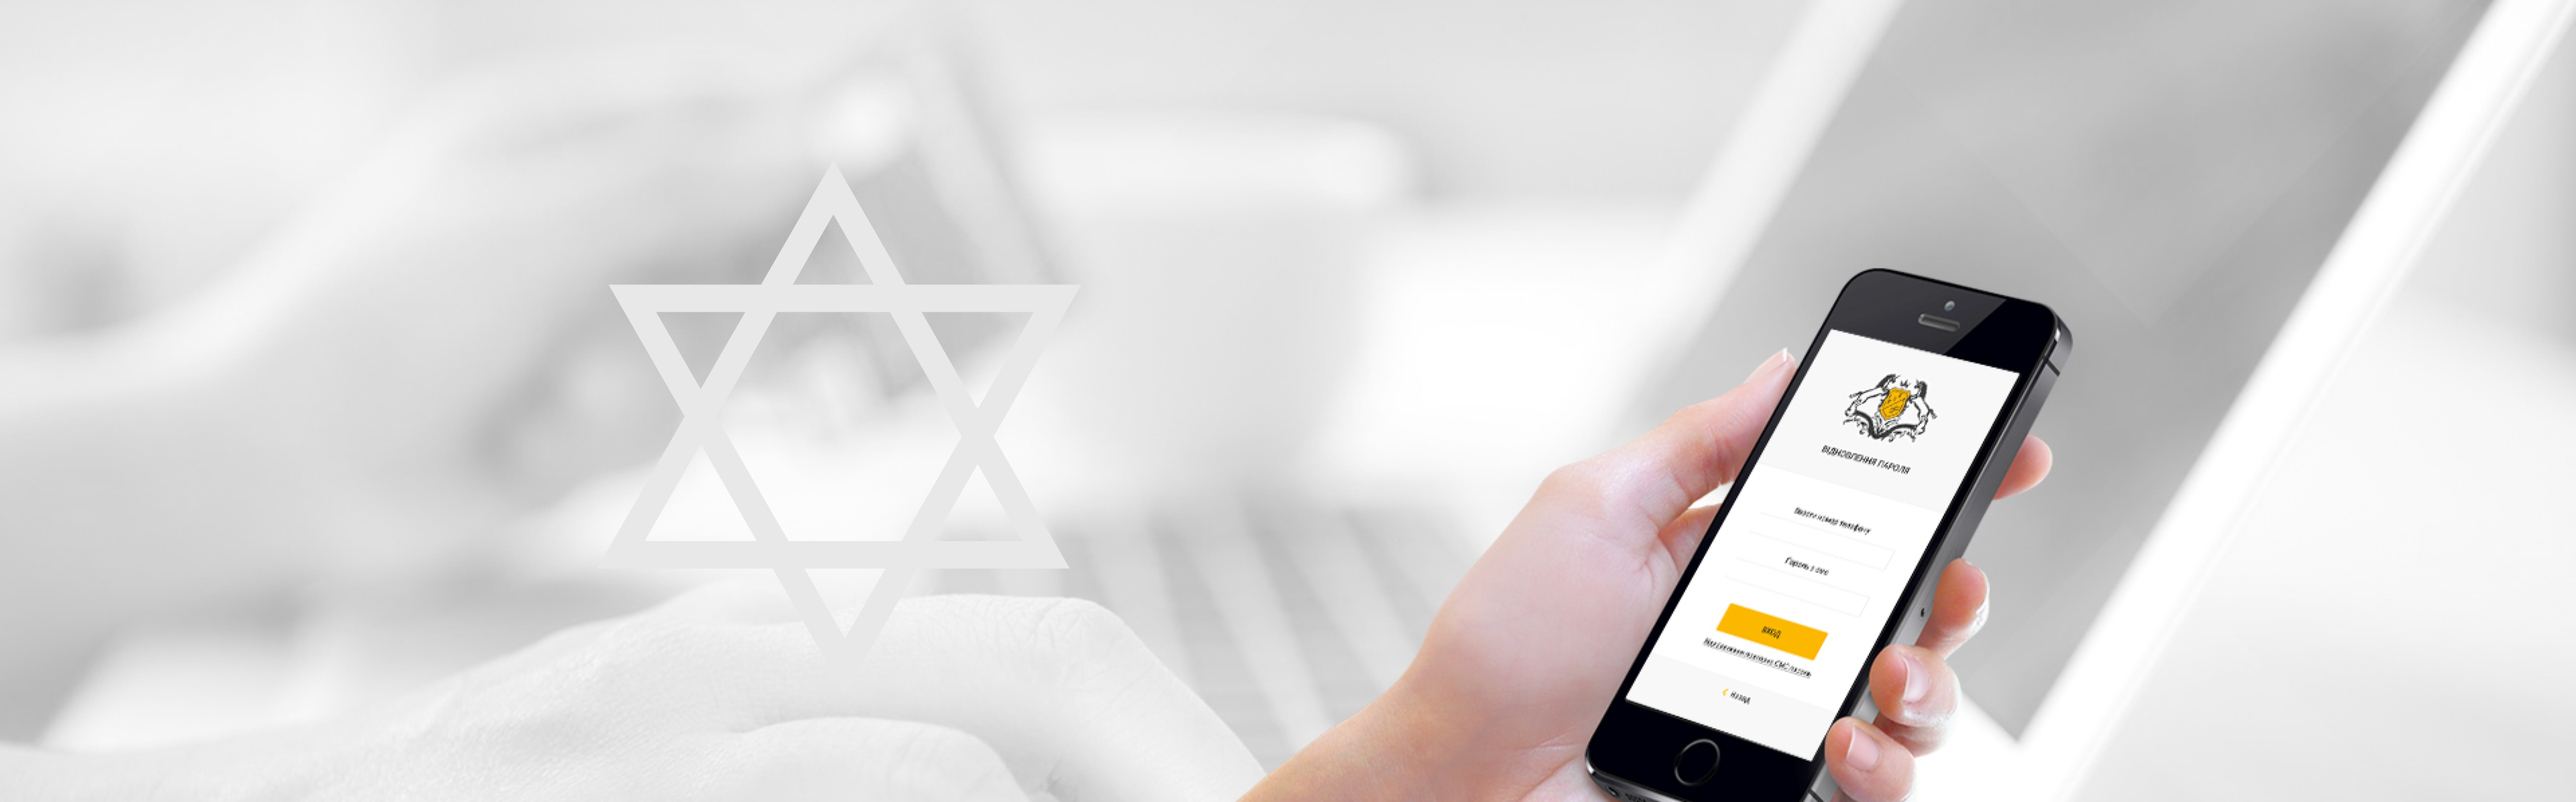
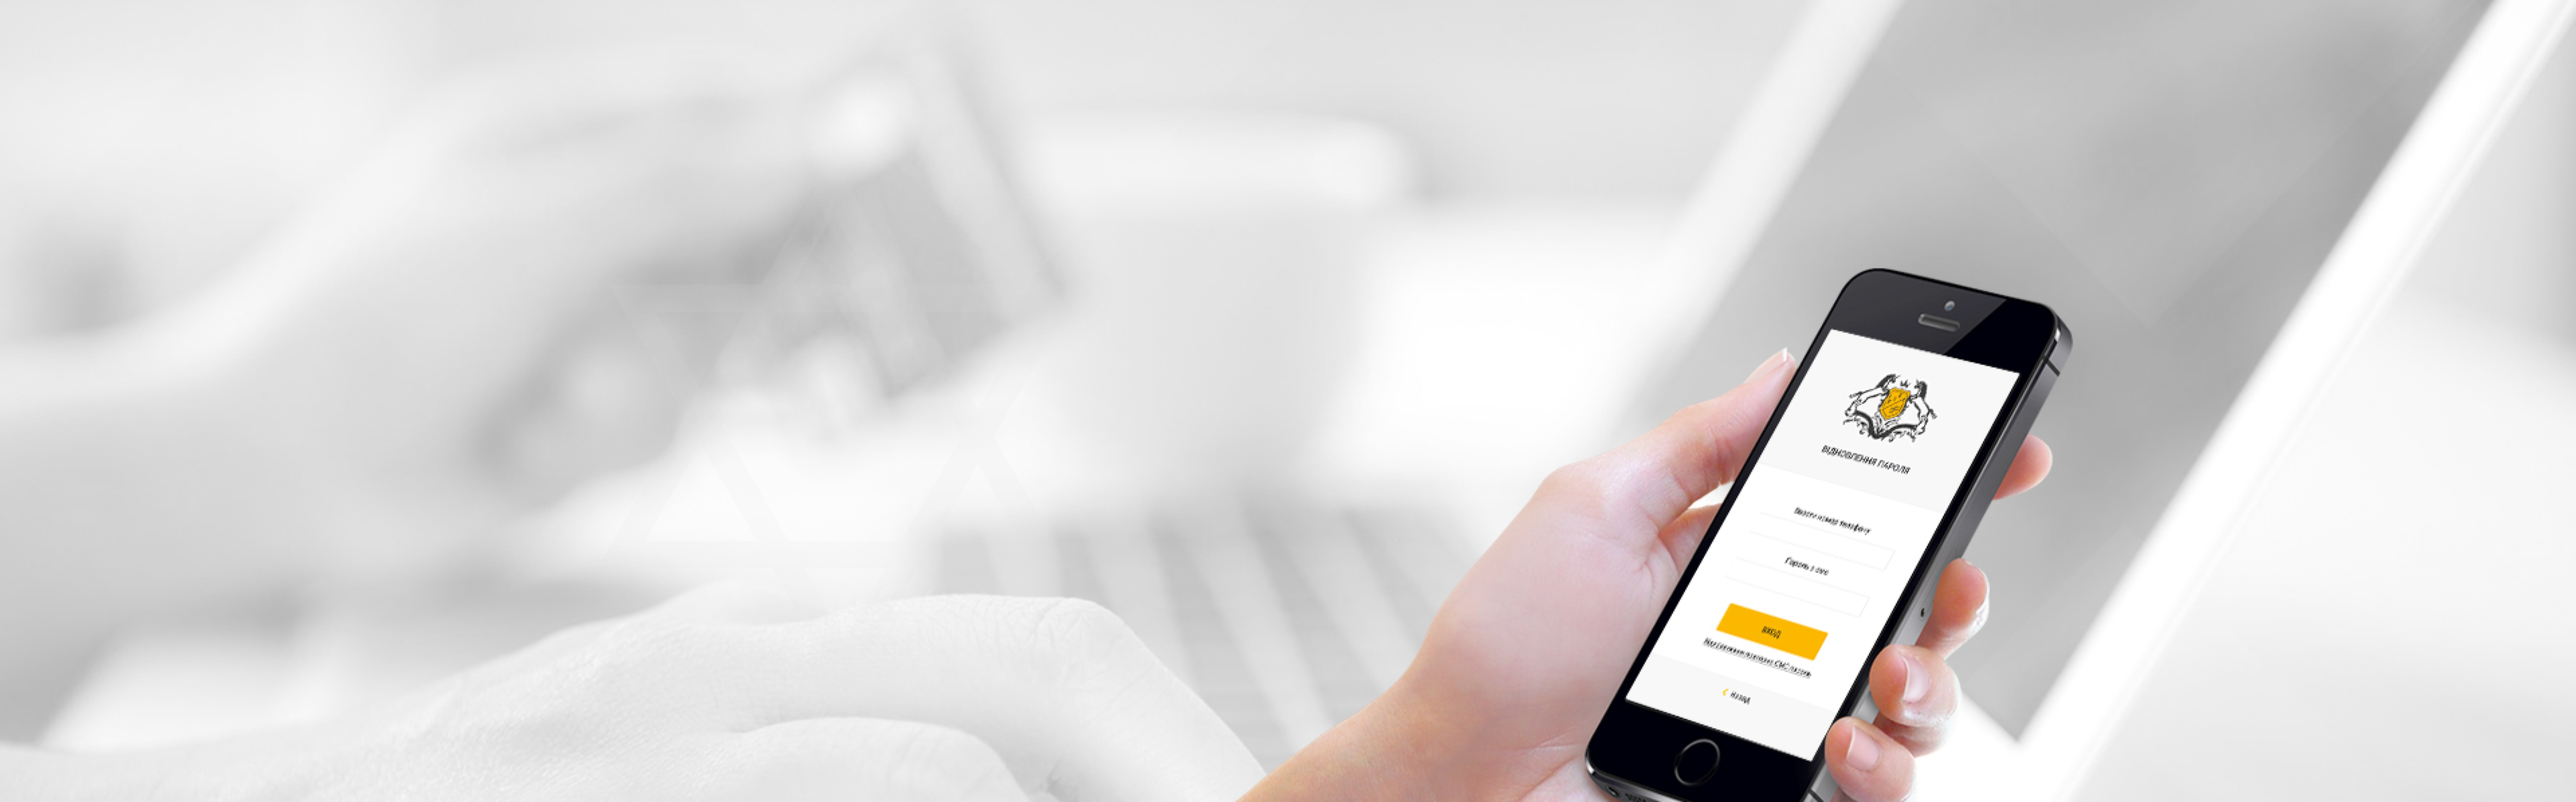
added timer to  Exchange and Marketplace; change background for business and private pages

Changed region(s): [[0.2188, 0.2166, 0.4062, 0.495]]

diff --git a/src/assets/new_assets/js/jquery.time-to.min.js b/src/assets/new_assets/js/jquery.time-to.min.js
@@ -1,0 +1,10 @@
+/**
+ * Time-To jQuery plug-in
+ * Show countdown timer or realtime clock
+ *
+ * @author Alexey Teterin <altmoc@gmail.com>
+ * @version 1.2.0
+ * @license MIT http://opensource.org/licenses/MIT
+ * @date 2016-11-02
+ */
+!function(t){"function"==typeof define&&define.amd?define(["jquery"],t):"object"==typeof exports?module.exports=t(require("jquery")):t(jQuery)}(function(t){function e(e,a){var o,l,d,r,c,u,h,p,f,m=this.data(),y=this.find("ul"),g=!1;if(m.vals&&0!==y.length){for(e||(e=m.seconds),m.intervalId&&(g=!0,clearTimeout(m.intervalId)),o=Math.floor(e/s),l=o*s,d=Math.floor((e-l)/n),l+=d*n,r=Math.floor((e-l)/60),l+=60*r,c=e-l,u=(o<100?"0"+(o<10?"0":""):"")+o+(d<10?"0":"")+d+(r<10?"0":"")+r+(c<10?"0":"")+c,h=m.vals.length-1,p=u.length-1;h>=0;h-=1,p-=1)f=parseInt(u.substr(p,1),10),m.vals[h]=f,y.eq(h).children().html(f);(g||a)&&(m.ttStartTime=t.now(),m.intervalId=setTimeout(i.bind(this),1e3),this.data("intervalId",m.intervalId))}}function i(e){var s,n,a,o,l,d,r=this,c=this.find("ul"),u=this.data();return u.vals&&0!==c.length?("undefined"==typeof e&&(e=u.iSec),s=u.vals[e],n=c.eq(e),a=n.children(),o=u.countdown?-1:1,a.eq(1).html(s),s+=o,e===u.iSec&&(l=u.tickTimeout,d=t.now()-u.ttStartTime,u.sec+=o,l+=Math.abs(u.seconds-u.sec)*l-d,u.intervalId=setTimeout(i.bind(this),l)),(s<0||s>u.limits[e])&&(s<0?(s=u.limits[e],e===u.iHour&&u.displayDays>0&&e>0&&0===u.vals[e-1]&&(s=3)):s=0,e>0&&i.call(this,e-1)),a.eq(0).html(s),t.support.transition?(n.addClass("transition"),n.css({top:0}),setTimeout(function(){n.removeClass("transition"),a.eq(1).html(s),n.css({top:"-"+u.height+"px"}),o>0||e!==u.iSec||(u.sec===u.countdownAlertLimit&&c.parent().addClass("timeTo-alert"),0===u.sec&&(c.parent().removeClass("timeTo-alert"),u.intervalId&&(clearTimeout(u.intervalId),r.data("intervalId",null)),"function"==typeof u.callback&&u.callback()))},410)):n.stop().animate({top:0},400,e!==u.iSec?null:function(){a.eq(1).html(s),n.css({top:"-"+u.height+"px"}),o>0||e!==u.iSec||(u.sec===u.countdownAlertLimit?c.parent().addClass("timeTo-alert"):0===u.sec&&(c.parent().removeClass("timeTo-alert"),u.intervalId&&(clearTimeout(u.intervalId),r.data("intervalId",null)),"function"==typeof u.callback&&u.callback()))}),void(u.vals[e]=s)):(u.intervalId&&(clearTimeout(u.intervalId),this.data("intervalId",null)),void(u.callback&&u.callback()))}var s=86400,n=3600,a={callback:null,captionSize:0,countdown:!0,countdownAlertLimit:10,displayCaptions:!1,displayDays:0,displayHours:!0,fontFamily:"Verdana, sans-serif",fontSize:0,lang:"en",languages:{},seconds:0,start:!0,theme:"white",width:25,height:30,gap:11,vals:[0,0,0,0,0,0,0,0,0],limits:[9,9,9,2,9,5,9,5,9],iSec:8,iHour:4,tickTimeout:1e3,intervalId:null},o={start:function(s){var n;s&&(e.call(this,s),n=setTimeout(i.bind(this),1e3),this.data("ttStartTime",t.now()),this.data("intervalId",n))},stop:function(){var t=this.data();return t.intervalId&&(clearTimeout(t.intervalId),this.data("intervalId",null)),t},reset:function(t){var i=o.stop.call(this),s="undefined"==typeof t?i.seconds:t;this.find("div").css({backgroundPosition:"left center"}),this.find("ul").parent().removeClass("timeTo-alert"),e.call(this,s,!0)}},l={en:{days:"days",hours:"hours",min:"minutes",sec:"seconds"},ru:{days:"дней",hours:"часов",min:"минут",sec:"секунд"},ua:{days:"днiв",hours:"годин",min:"хвилин",sec:"секунд"},de:{days:"Tag",hours:"Uhr",min:"Minuten",sec:"Secunden"},fr:{days:"jours",hours:"heures",min:"minutes",sec:"secondes"},sp:{days:"días",hours:"horas",min:"minutos",sec:"segundos"},it:{days:"giorni",hours:"ore",min:"minuti",sec:"secondi"},nl:{days:"dagen",hours:"uren",min:"minuten",sec:"seconden"},no:{days:"dager",hours:"timer",min:"minutter",sec:"sekunder"},pt:{days:"dias",hours:"horas",min:"minutos",sec:"segundos"},tr:{days:"gün",hours:"saat",min:"dakika",sec:"saniye"}};return"undefined"==typeof t.support.transition&&(t.support.transition=function(){var t=document.body||document.documentElement,e=t.style,i=void 0!==e.transition||void 0!==e.WebkitTransition||void 0!==e.MozTransition||void 0!==e.MsTransition||void 0!==e.OTransition;return i}()),t.fn.timeTo=function(){var i,d,r,c,u,h,p,f,m,y,g={},v=t.now();for(i=0;i<arguments.length;i+=1)d=arguments[i],0===i&&"string"==typeof d?c=d:"object"==typeof d?"function"==typeof d.getTime?g.timeTo=d:g=t.extend(g,d):"function"==typeof d?g.callback=d:(r=parseInt(d,10),isNaN(r)||(g.seconds=r));if(g.timeTo)g.timeTo.getTime?u=g.timeTo.getTime():"number"==typeof g.timeTo&&(u=g.timeTo),u>v?g.seconds=Math.floor((u-v)/1e3):g.seconds=0;else if(g.time||!g.seconds)if(u=g.time,u||(u=new Date),"object"==typeof u&&u.getTime)g.seconds=u.getHours()*n+60*u.getMinutes()+u.getSeconds(),g.countdown=!1;else if("string"==typeof u){for(p=u.split(":"),f=0,m=1;p.length;)y=p.pop(),f+=y*m,m*=60;g.seconds=f,g.countdown=!1}return g.countdown!==!1&&g.seconds>s&&"undefined"==typeof g.displayDays?(h=Math.floor(g.seconds/s),g.displayDays=h<10&&1||h<100&&2||3):g.displayDays===!0?g.displayDays=3:g.displayDays&&(g.displayDays=g.displayDays>0?Math.floor(g.displayDays):3),this.each(function(){var i,s,n,d,r,u,h,p,f,m,y,v,T,I,w,S,x,b,M,k,D,z,C=t(this),$=C.data();if($.intervalId&&(clearInterval($.intervalId),$.intervalId=null),$.vals)"reset"!==c&&t.extend($,g);else{if(s=$.opt?$.options:g,i=Object.keys(a).reduce(function(t,e){return Array.isArray(a[e])?t[e]=a[e].slice(0):t[e]=a[e],t},{}),$=t.extend(i,s),$.options=s,$.height=Math.round(100*$.fontSize/93)||$.height,$.width=Math.round(.8*$.fontSize+.13*$.height)||$.width,$.displayHours=!(!$.displayDays&&!$.displayHours),d={fontFamily:$.fontFamily},$.fontSize>0&&(d.fontSize=$.fontSize+"px"),r=$.languages[$.lang]||l[$.lang],C.addClass("timeTo").addClass("timeTo-"+$.theme).css(d),u=Math.round($.height/10),h='<ul style="left:'+u+"px; top:-"+$.height+'px"><li>0</li><li>0</li></ul></div>',p=$.fontSize?' style="width:'+$.width+"px; height:"+$.height+'px;"':' style=""',f='<div class="first"'+p+">"+h,m="<div"+p+">"+h,y="<span>:</span>",v=Math.round(2*$.width+3),T=$.captionSize||$.fontSize&&Math.round(.43*$.fontSize),I=T?"font-size:"+T+"px;":"",w=T?' style="'+I+'"':"",S=($.displayCaptions?($.displayHours?'<figure style="max-width:'+v+'px">$1<figcaption'+w+">"+r.hours+"</figcaption></figure>"+y:"")+'<figure style="max-width:'+v+'px">$1<figcaption'+w+">"+r.min+"</figcaption></figure>"+y+'<figure style="max-width:'+v+'px">$1<figcaption'+w+">"+r.sec+"</figcaption></figure>":($.displayHours?"$1"+y:"")+"$1"+y+"$1").replace(/\$1/g,f+m),$.displayDays>0){for(x=.4*$.fontSize||a.gap,b=f,n=$.displayDays-1;n>0;n-=1)b+=1===n?m.replace('">',"margin-right:"+Math.round(x)+'px">'):m;S=($.displayCaptions?'<figure style="width:'+Math.round($.width*$.displayDays+x+4)+'px">$1<figcaption style="'+I+"padding-right:"+Math.round(x)+'px">'+r.days+"</figcaption></figure>":"$1").replace(/\$1/,b)+S}C.html(S)}if(M=C.find("div"),M.length<$.vals.length){for(k=$.vals.length-M.length,D=$.vals,z=$.limits,$.vals=[],$.limits=[],n=0;n<M.length;n+=1)$.vals[n]=D[k+n],$.limits[n]=z[k+n];$.iSec=$.vals.length-1,$.iHour=$.vals.length-5}$.sec=$.seconds,C.data($),c&&o[c]?o[c].call(C,$.seconds):$.start?o.start.call(C,$.seconds):e.call(C,$.seconds)})},t});

diff --git a/src/assets/css/timeTo.css b/src/assets/css/timeTo.css
@@ -1,0 +1,109 @@
+figure, figcaption {
+	display: block;
+}
+
+.transition {
+    -webkit-transition: top 400ms linear;
+    -moz-transition: top 400ms linear;
+    -ms-transition: top 400ms linear;
+    -o-transition: top 400ms linear;
+    transition: top 400ms linear;
+}
+
+.timeTo {
+	font-family: Tahoma, Verdana, Aial, sans-serif;
+	font-size: 28px;
+	line-height: 108%;
+	font-weight: bold;
+	height: 32px;
+}
+
+.timeTo span {
+	vertical-align: top;
+}
+
+.timeTo.timeTo-white div {
+	color: black;
+    background: #ffffff; /* Old browsers */
+    background: -moz-linear-gradient(top, #ffffff 38%, #cccccc 100%); /* FF3.6+ */
+    background: -webkit-gradient(linear, left top, left bottom, color-stop(38%,#ffffff), color-stop(100%,#cccccc)); /* Chrome,Safari4+ */
+    background: -webkit-linear-gradient(top, #ffffff 38%,#cccccc 100%); /* Chrome10+,Safari5.1+ */
+    background: -o-linear-gradient(top, #ffffff 38%,#cccccc 100%); /* Opera 11.10+ */
+    background: -ms-linear-gradient(top, #ffffff 38%,#cccccc 100%); /* IE10+ */
+    background: linear-gradient(to bottom, #ffffff 38%,#cccccc 100%); /* W3C */
+    filter: progid:DXImageTransform.Microsoft.gradient( startColorstr='#ffffff', endColorstr='#cccccc',GradientType=0 ); /* IE6-9 */
+}
+.timeTo.timeTo-black div {
+	color: white;
+    background: #45484d; /* Old browsers */
+    background: -moz-linear-gradient(top, #45484d 0%, #000000 100%); /* FF3.6+ */
+    background: -webkit-gradient(linear, left top, left bottom, color-stop(0%,#45484d), color-stop(100%,#000000)); /* Chrome,Safari4+ */
+    background: -webkit-linear-gradient(top, #45484d 0%,#000000 100%); /* Chrome10+,Safari5.1+ */
+    background: -o-linear-gradient(top, #45484d 0%,#000000 100%); /* Opera 11.10+ */
+    background: -ms-linear-gradient(top, #45484d 0%,#000000 100%); /* IE10+ */
+    background: linear-gradient(to bottom, #45484d 0%,#000000 100%); /* W3C */
+    filter: progid:DXImageTransform.Microsoft.gradient( startColorstr='#45484d', endColorstr='#000000',GradientType=0 ); /* IE6-9 */
+}
+
+.timeTo.timeTo-black .timeTo-alert {
+    background: #a74444; /* Old browsers */
+    background: -moz-linear-gradient(top, #a74444 0%, #3f0000 67%); /* FF3.6+ */
+    background: -webkit-gradient(linear, left top, left bottom, color-stop(0%,#a74444), color-stop(67%,#3f0000)); /* Chrome,Safari4+ */
+    background: -webkit-linear-gradient(top, #a74444 0%,#3f0000 67%); /* Chrome10+,Safari5.1+ */
+    background: -o-linear-gradient(top, #a74444 0%,#3f0000 67%); /* Opera 11.10+ */
+    background: -ms-linear-gradient(top, #a74444 0%,#3f0000 67%); /* IE10+ */
+    background: linear-gradient(to bottom, #a74444 0%,#3f0000 67%); /* W3C */
+    filter: progid:DXImageTransform.Microsoft.gradient( startColorstr='#a74444', endColorstr='#3f0000',GradientType=0 ); /* IE6-9 */
+}
+
+.timeTo.timeTo-white .timeTo-alert {
+    background: #ffffff; /* Old browsers */
+    background: -moz-linear-gradient(top, #ffffff 35%, #e17373 100%); /* FF3.6+ */
+    background: -webkit-gradient(linear, left top, left bottom, color-stop(35%,#ffffff), color-stop(100%,#e17373)); /* Chrome,Safari4+ */
+    background: -webkit-linear-gradient(top, #ffffff 35%,#e17373 100%); /* Chrome10+,Safari5.1+ */
+    background: -o-linear-gradient(top, #ffffff 35%,#e17373 100%); /* Opera 11.10+ */
+    background: -ms-linear-gradient(top, #ffffff 35%,#e17373 100%); /* IE10+ */
+    background: linear-gradient(to bottom, #ffffff 35%,#e17373 100%); /* W3C */
+    filter: progid:DXImageTransform.Microsoft.gradient( startColorstr='#ffffff', endColorstr='#e17373',GradientType=0 ); /* IE6-9 */
+}
+
+.timeTo figure {
+	display: inline-block;
+	margin: 0;
+	padding: 0;
+}
+.timeTo figcaption {
+	text-align: center;
+	/*font-size: 12px;*/
+	line-height: 80%;
+	font-weight: normal;
+	color: #888;
+}
+
+.timeTo div {
+	position: relative;
+	display: inline-block;
+	width: 25px;
+	height: 30px;
+	border-top: 1px solid silver;
+	border-right: 1px solid silver;
+	border-bottom: 1px solid silver;
+	overflow: hidden;
+}
+.timeTo div.first {
+	border-left: 1px solid silver;
+}
+
+.timeTo ul {
+	list-style-type: none;
+	margin: 0;
+	padding: 0;
+	position: absolute;
+	left: 3px;
+}
+
+.timeTo ul li {
+    margin: 0;
+    padding: 0;
+    list-style: none;
+}

diff --git a/src/index.html b/src/index.html
@@ -18,6 +18,7 @@
   <link type="text/css" rel="stylesheet" href="assets/css/bootstrap.min.css" />
   <link type="text/css" rel="stylesheet" href="assets/css/intlTelInput.css" />
   <link type="text/css" rel="stylesheet" href="assets/css/waitMe.min.css" />
+  <link type="text/css" rel="stylesheet" href="assets/css/timeTo.css" />
 
   <link type="text/css" rel="stylesheet" href="assets/new_assets/css/main.css" />
   <link type="text/css" rel="stylesheet" href="assets/new_assets/css/careers_styles.css" />
@@ -50,5 +51,6 @@
   <script type="text/javascript" src="assets/js/intlTelInput/intlTelInput.js"></script>
   <script type="text/javascript" src="assets/js/waitMe.min.js"></script>
   <script type="text/javascript" src="assets/new_assets/js/toastr.min.js"></script>
+  <script type="text/javascript" src="assets/new_assets/js/jquery.time-to.min.js"></script>
 </body>
 </html>

diff --git a/src/app/site/birga/birga.component.ts b/src/app/site/birga/birga.component.ts
@@ -1,4 +1,4 @@
-import { Component } from '@angular/core';
+import { Component, OnInit } from '@angular/core';
 
 declare const $: any;
 
@@ -10,8 +10,17 @@ declare const $: any;
   ]
 })
 
-export class BirgaComponent {
+export class BirgaComponent implements OnInit {
 
+  ngOnInit(){
+    this.timer()
+  }
 
+  timer(){
+    $('.clock').timeTo({
+      timeTo: new Date(new Date('April 14 2017 00:00:00 GMT+0200 (EET)'))
+    });
+
+  }
 
 }

diff --git a/src/app/site/market/market.component.ts b/src/app/site/market/market.component.ts
@@ -1,4 +1,4 @@
-import { Component } from '@angular/core';
+import { Component, OnInit } from '@angular/core';
 
 declare const $: any;
 
@@ -10,8 +10,16 @@ declare const $: any;
   ]
 })
 
-export class MarketComponent {
+export class MarketComponent implements OnInit {
 
+ngOnInit(){
+  this.timer()
+}
 
+  timer(){
+    $('.clock').timeTo({
+      timeTo: new Date(new Date('April 14 2017 00:00:00 GMT+0200 (EET)'))
+    });
 
+  }
 }
